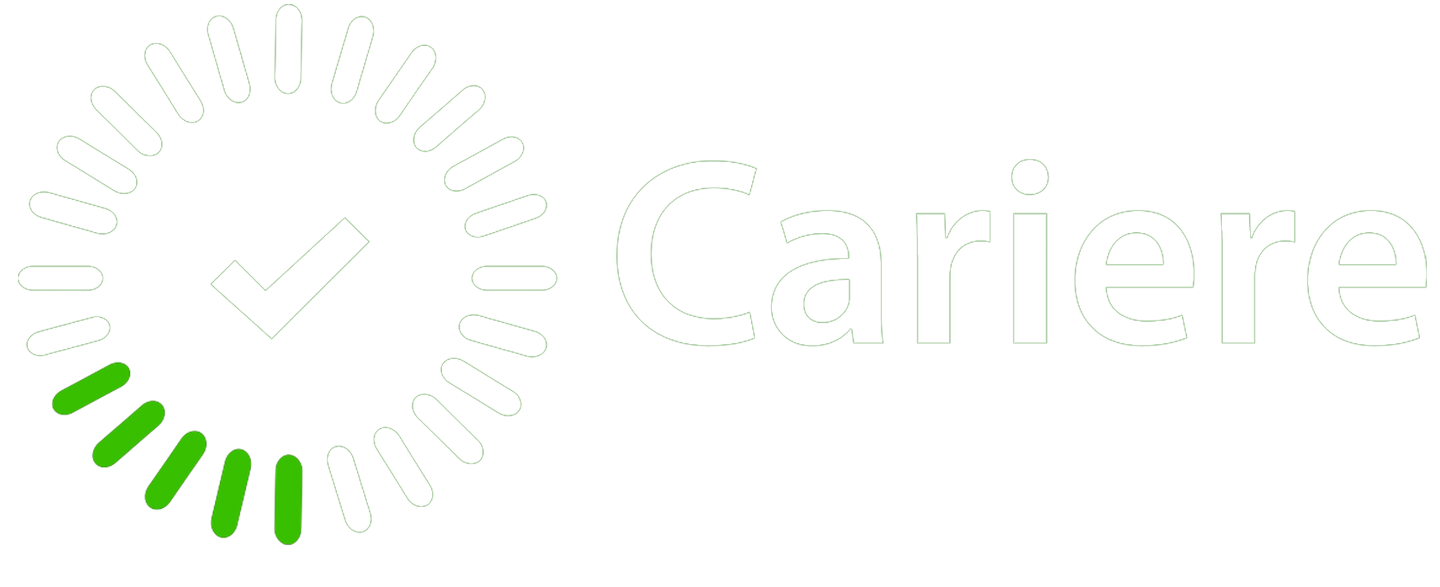
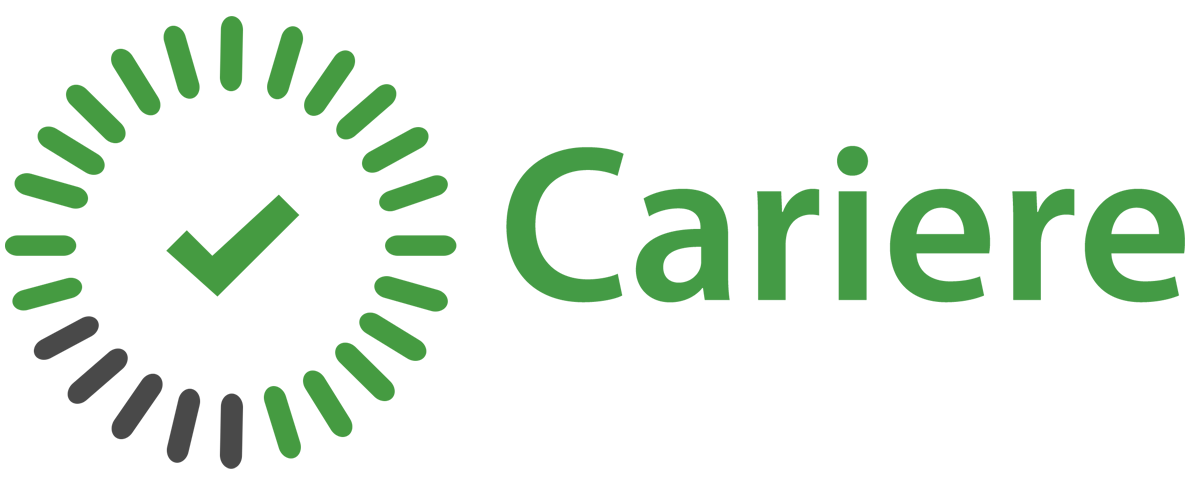
Minor updates

Changed region(s): [[0.0, 0.0, 1.0, 0.9509], [0.1231, 0.3988, 0.2463, 0.6135]]

diff --git a/assets/js/custom.js b/assets/js/custom.js
@@ -1,27 +1,34 @@
 $(function() {
-    $('#input').val("help");
     $('.terminal').on('click', function(){
         $('#input').focus();
     });
     $('#input').on('keydown',function search(e) {
         if(e.keyCode === 13) {
-            let input = $(this).val();
-            $('#history').append($('#path')[0].innerHTML+input+'<br>');
-            let out = manageTerminalOutput(input);
-            if(out!==false)
-                $('#history').append(out+'<br>');
-            $('#input').val('');
+            execCommand($(this).val())
         }
     });
+    setTimeout(function(){
+        execCommand("Cariere.exe");
+        $('#input').val("help");
+    }, 1300);
 });
+
+function execCommand(input){
+    $('#history').append($('#path')[0].innerHTML+input+'<br>');
+    let out = manageTerminalOutput(input);
+    if(out!==false)
+        $('#history').append(out+'<br>');
+    $('#input').val('');
+}
 
 function manageTerminalOutput(input){
     if(input.substring(0, 3)==='cd '){
         $('#path').html(input.substring(3) + '>&nbsp;');
         return false;
     }
-    if(input==="Cariere.exe")
+    if(input==="Cariere.exe"){
         return "CARIERE v10 Loading... [####################] 100%";
+    }
     if(input==="h" || input==="help")
         return "ls - list files<br>cd - change directory<br>clear - clear terminal";
     if(input==="clear"){

diff --git a/index.php b/index.php
@@ -10,7 +10,7 @@
   <header id="header" class="fixed-top">
     <div class="container d-flex align-items-center">
 
-      <a href="index.php" class="logo me-auto"><img src="images/cariere-small.png" class="img-fluid"></a>
+      <a href="index.php" class="logo me-auto"><img src="images/cariere-small-white.png" class="img-fluid"></a>
 
       <nav class="nav-menu d-none d-lg-block">
         <ul>
@@ -30,15 +30,15 @@
 
     <div class="container">
       <div class="row">
-          <div class="col-lg-6 d-flex flex-column justify-content-center pt-lg-0 order-1 order-lg-1 aos-init aos-animate" data-aos="fade-up" data-aos-delay="200">
-              <div>
+          <div class="col-lg-6 d-flex flex-column justify-content-center pt-lg-0 order-1 order-lg-1 aos-init aos-animate">
+              <div data-aos="fade-right" data-aos-delay="200">
                   <img src="images/cariere-white.png" style="width: 350px" alt="" class="img-fluid">
                   <br>
                   <a href="#about" class="btn-get-started scrollto mt-5">Despre Cariere</a>
                   <a href="https://www.youtube.com/watch?v=jDDaplaOz7Q" class="venobox btn-watch-video vbox-item mb-5" data-vbtype="video" data-autoplay="true"> Vezi video <i class="icofont-play-alt-2"></i></a>
               </div>
           </div>
-        <div class="col-lg-6 order-2 order-lg-2 hero-img mt-5" data-aos="zoom-in" data-aos-delay="200">
+        <div class="col-lg-6 order-2 order-lg-2 hero-img mt-5" data-aos="fade-up" data-aos-delay="600">
           <div class="wsize1 bor1" style="height: 450px">
 				<div class="panel">
 					<i class="fa fa-circle" style="color:rgb(237,106,94);margin-left: 15px"></i>
@@ -47,8 +47,6 @@
 				</div>
 				<div class="terminal">
 					<div id="history">
-						Cariere> Cariere.exe<br>
-						CARIERE v10 Loading... [####################] 100%<br>
 					</div>
 					<div class="line">
 						<span id="path">Cariere>&nbsp;</span>

diff --git a/details.php b/details.php
@@ -16,10 +16,7 @@
 <!-- ======= Header ======= -->
 <header id="header" class="fixed-top header-inner-pages bg-white">
     <div class="container d-flex align-items-center">
-
-        <!--<h1 class="logo me-auto"><a href="/">Cariere v10.0</a></h1>-->
-        <!-- Uncomment below if you prefer to use an image logo -->
-        <a href="index.php" class="logo me-auto"><img src="assets/img/logo-bannerV10.png"  alt="" class="img-fluid"></a>
+        <a href="index.php" class="logo me-auto"><img src="images/cariere-small.png"  alt="" class="img-fluid"></a>
     </div>
 </header><!-- End Header -->
 
@@ -27,7 +24,7 @@
 
     <!-- ======= Breadcrumbs ======= -->
     <section id="breadcrumbs" class="breadcrumbs" style="margin-top:60px">
-        <div class="container">
+        <div class="container pt-3">
             <ol>
                 <li><a href="/">Acasă</a></li>
                 <li><?php echo $company_details["name"]; ?></li>
